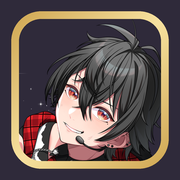
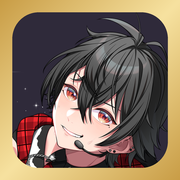
アイコン: 外側の暗い縁をなくし金枠を端まで広げる
Claude-Session: https://claude.ai/code/session_01Q8hdMR51joEyXxJTgwJaSg

diff --git a/404.html b/404.html
@@ -20,20 +20,20 @@
 <meta property="og:locale" content="ja_JP">
 <meta name="twitter:card" content="summary_large_image">
 <meta name="twitter:image" content="https://ante-stage.github.io/img/og.png">
-<link rel="manifest" href="manifest.webmanifest?v=20261015a">
-<link rel="icon" href="icon-192.png?v=20261015a">
-<link rel="apple-touch-icon" href="apple-touch-icon.png?v=20261015a">
+<link rel="manifest" href="manifest.webmanifest?v=20261015b">
+<link rel="icon" href="icon-192.png?v=20261015b">
+<link rel="apple-touch-icon" href="apple-touch-icon.png?v=20261015b">
 <link rel="preconnect" href="https://fonts.googleapis.com">
 <link rel="preconnect" href="https://fonts.gstatic.com" crossorigin>
 <link href="https://fonts.googleapis.com/css2?family=Dela+Gothic+One&family=M+PLUS+Rounded+1c:wght@500;700;800&family=Cinzel+Decorative:wght@700&display=swap" rel="stylesheet">
 <script>try{if(sessionStorage.getItem('ptin')==='1')document.documentElement.classList.add('pt-in')}catch(e){}</script>
-<link rel="stylesheet" href="assets/site.css?v=20261015a">
+<link rel="stylesheet" href="assets/site.css?v=20261015b">
 </head>
 <body data-page="nf">
 
 <main id="main"><div class="pg"><div class="pghead"><div class="h"><small>404</small><h1>ページが見つかりません</h1></div></div>
 <div class="card" style="text-align:center"><p style="margin-bottom:14px">矢が外れちゃったみたい。ホームに戻ろう♡</p><a class="btn" href="index.html">ホームへ</a></div></div></main>
 
-<script src="assets/site.js?v=20261015a" defer></script>
+<script src="assets/site.js?v=20261015b" defer></script>
 </body>
 </html>

diff --git a/profile.html b/profile.html
@@ -20,14 +20,14 @@
 <meta property="og:locale" content="ja_JP">
 <meta name="twitter:card" content="summary_large_image">
 <meta name="twitter:image" content="https://ante-stage.github.io/img/og.png">
-<link rel="manifest" href="manifest.webmanifest?v=20261015a">
-<link rel="icon" href="icon-192.png?v=20261015a">
-<link rel="apple-touch-icon" href="apple-touch-icon.png?v=20261015a">
+<link rel="manifest" href="manifest.webmanifest?v=20261015b">
+<link rel="icon" href="icon-192.png?v=20261015b">
+<link rel="apple-touch-icon" href="apple-touch-icon.png?v=20261015b">
 <link rel="preconnect" href="https://fonts.googleapis.com">
 <link rel="preconnect" href="https://fonts.gstatic.com" crossorigin>
 <link href="https://fonts.googleapis.com/css2?family=Dela+Gothic+One&family=M+PLUS+Rounded+1c:wght@500;700;800&family=Cinzel+Decorative:wght@700&display=swap" rel="stylesheet">
 <script>try{if(sessionStorage.getItem('ptin')==='1')document.documentElement.classList.add('pt-in')}catch(e){}</script>
-<link rel="stylesheet" href="assets/site.css?v=20261015a">
+<link rel="stylesheet" href="assets/site.css?v=20261015b">
 </head>
 <body data-page="profile">
 
@@ -64,6 +64,6 @@
   </section>
 </div></main>
 
-<script src="assets/site.js?v=20261015a" defer></script>
+<script src="assets/site.js?v=20261015b" defer></script>
 </body>
 </html>

diff --git a/news.html b/news.html
@@ -20,14 +20,14 @@
 <meta property="og:locale" content="ja_JP">
 <meta name="twitter:card" content="summary_large_image">
 <meta name="twitter:image" content="https://ante-stage.github.io/img/og.png">
-<link rel="manifest" href="manifest.webmanifest?v=20261015a">
-<link rel="icon" href="icon-192.png?v=20261015a">
-<link rel="apple-touch-icon" href="apple-touch-icon.png?v=20261015a">
+<link rel="manifest" href="manifest.webmanifest?v=20261015b">
+<link rel="icon" href="icon-192.png?v=20261015b">
+<link rel="apple-touch-icon" href="apple-touch-icon.png?v=20261015b">
 <link rel="preconnect" href="https://fonts.googleapis.com">
 <link rel="preconnect" href="https://fonts.gstatic.com" crossorigin>
 <link href="https://fonts.googleapis.com/css2?family=Dela+Gothic+One&family=M+PLUS+Rounded+1c:wght@500;700;800&family=Cinzel+Decorative:wght@700&display=swap" rel="stylesheet">
 <script>try{if(sessionStorage.getItem('ptin')==='1')document.documentElement.classList.add('pt-in')}catch(e){}</script>
-<link rel="stylesheet" href="assets/site.css?v=20261015a">
+<link rel="stylesheet" href="assets/site.css?v=20261015b">
 </head>
 <body data-page="news">
 
@@ -51,6 +51,6 @@
   </section>
 </div></main>
 
-<script src="assets/site.js?v=20261015a" defer></script>
+<script src="assets/site.js?v=20261015b" defer></script>
 </body>
 </html>

diff --git a/schedule.html b/schedule.html
@@ -20,14 +20,14 @@
 <meta property="og:locale" content="ja_JP">
 <meta name="twitter:card" content="summary_large_image">
 <meta name="twitter:image" content="https://ante-stage.github.io/img/og.png">
-<link rel="manifest" href="manifest.webmanifest?v=20261015a">
-<link rel="icon" href="icon-192.png?v=20261015a">
-<link rel="apple-touch-icon" href="apple-touch-icon.png?v=20261015a">
+<link rel="manifest" href="manifest.webmanifest?v=20261015b">
+<link rel="icon" href="icon-192.png?v=20261015b">
+<link rel="apple-touch-icon" href="apple-touch-icon.png?v=20261015b">
 <link rel="preconnect" href="https://fonts.googleapis.com">
 <link rel="preconnect" href="https://fonts.gstatic.com" crossorigin>
 <link href="https://fonts.googleapis.com/css2?family=Dela+Gothic+One&family=M+PLUS+Rounded+1c:wght@500;700;800&family=Cinzel+Decorative:wght@700&display=swap" rel="stylesheet">
 <script>try{if(sessionStorage.getItem('ptin')==='1')document.documentElement.classList.add('pt-in')}catch(e){}</script>
-<link rel="stylesheet" href="assets/site.css?v=20261015a">
+<link rel="stylesheet" href="assets/site.css?v=20261015b">
 </head>
 <body data-page="schedule">
 
@@ -43,6 +43,6 @@
   </div>
 </div></main>
 
-<script src="assets/site.js?v=20261015a" defer></script>
+<script src="assets/site.js?v=20261015b" defer></script>
 </body>
 </html>

diff --git a/songs.html b/songs.html
@@ -20,14 +20,14 @@
 <meta property="og:locale" content="ja_JP">
 <meta name="twitter:card" content="summary_large_image">
 <meta name="twitter:image" content="https://ante-stage.github.io/img/og.png">
-<link rel="manifest" href="manifest.webmanifest?v=20261015a">
-<link rel="icon" href="icon-192.png?v=20261015a">
-<link rel="apple-touch-icon" href="apple-touch-icon.png?v=20261015a">
+<link rel="manifest" href="manifest.webmanifest?v=20261015b">
+<link rel="icon" href="icon-192.png?v=20261015b">
+<link rel="apple-touch-icon" href="apple-touch-icon.png?v=20261015b">
 <link rel="preconnect" href="https://fonts.googleapis.com">
 <link rel="preconnect" href="https://fonts.gstatic.com" crossorigin>
 <link href="https://fonts.googleapis.com/css2?family=Dela+Gothic+One&family=M+PLUS+Rounded+1c:wght@500;700;800&family=Cinzel+Decorative:wght@700&display=swap" rel="stylesheet">
 <script>try{if(sessionStorage.getItem('ptin')==='1')document.documentElement.classList.add('pt-in')}catch(e){}</script>
-<link rel="stylesheet" href="assets/site.css?v=20261015a">
+<link rel="stylesheet" href="assets/site.css?v=20261015b">
 </head>
 <body data-page="songs">
 
@@ -59,6 +59,6 @@
   </form>
 </div>
 
-<script src="assets/site.js?v=20261015a" defer></script>
+<script src="assets/site.js?v=20261015b" defer></script>
 </body>
 </html>

diff --git a/index.html b/index.html
@@ -20,14 +20,14 @@
 <meta property="og:locale" content="ja_JP">
 <meta name="twitter:card" content="summary_large_image">
 <meta name="twitter:image" content="https://ante-stage.github.io/img/og.png">
-<link rel="manifest" href="manifest.webmanifest?v=20261015a">
-<link rel="icon" href="icon-192.png?v=20261015a">
-<link rel="apple-touch-icon" href="apple-touch-icon.png?v=20261015a">
+<link rel="manifest" href="manifest.webmanifest?v=20261015b">
+<link rel="icon" href="icon-192.png?v=20261015b">
+<link rel="apple-touch-icon" href="apple-touch-icon.png?v=20261015b">
 <link rel="preconnect" href="https://fonts.googleapis.com">
 <link rel="preconnect" href="https://fonts.gstatic.com" crossorigin>
 <link href="https://fonts.googleapis.com/css2?family=Dela+Gothic+One&family=M+PLUS+Rounded+1c:wght@500;700;800&family=Cinzel+Decorative:wght@700&display=swap" rel="stylesheet">
 <script>try{if(sessionStorage.getItem('ptin')==='1')document.documentElement.classList.add('pt-in')}catch(e){}</script>
-<link rel="stylesheet" href="assets/site.css?v=20261015a">
+<link rel="stylesheet" href="assets/site.css?v=20261015b">
 </head>
 <body data-page="home">
 
@@ -98,6 +98,6 @@
 </div>
 </main>
 
-<script src="assets/site.js?v=20261015a" defer></script>
+<script src="assets/site.js?v=20261015b" defer></script>
 </body>
 </html>

diff --git a/assets/site.js b/assets/site.js
@@ -85,7 +85,7 @@ function transitions(){
 
 /* ---------- 見出しの飾り（矢の刺さるハート） ---------- */
 var ORN='<img class="orn" src="img/logo-gold.png" alt="" width="900" height="438" loading="lazy">';
-var VER='20261015a';
+var VER='20261015b';
 function autoUpdate(){
   function chk(){try{fetch('version.json?t='+Date.now(),{cache:'no-store'}).then(function(r){return r.ok?r.json():null;}).then(function(j){
     if(!j||!j.v||j.v===VER)return;var k='verTry';if(ss(k)===j.v)return;ss(k,j.v);
